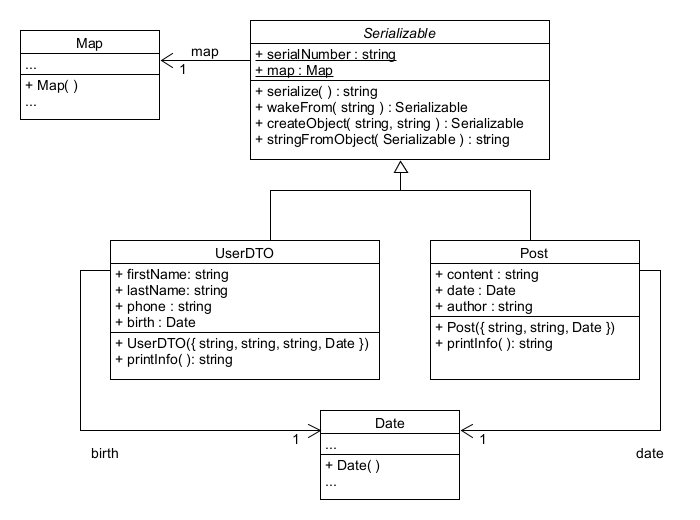
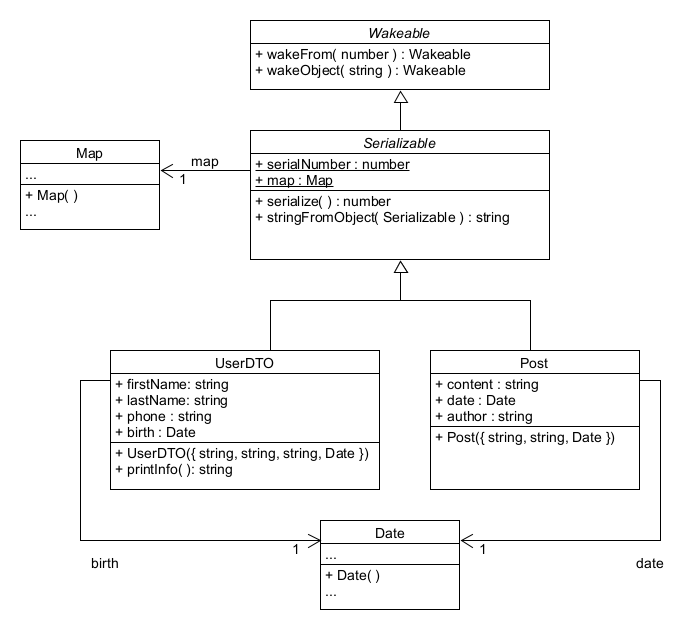
fixed OOP Practice #2

diff --git a/homeworks/german-macchia/09-js-advanced-2/09-js-advanced-2.js b/homeworks/german-macchia/09-js-advanced-2/09-js-advanced-2.js
@@ -1,43 +1,15 @@
-class Serializable {
-  static serialNumber = 0;
-  static map = new Map();
-
-  serialize() {
-    Serializable.serialNumber++;
-    Serializable.map.set(Serializable.serialNumber, [
-      this.constructor.name,
-      this.stringFromObject(this),
-    ]);
-    return Serializable.serialNumber;
-  }
-
-  stringFromObject(obj) {
-    for (let el in obj) {
-      if (Object.is(obj[el], NaN)) {
-        obj[el] = "NaN";
-      } else if (Object.is(obj[el], Infinity)) {
-        obj[el] = "Infinity";
-      }
-    }
-    return JSON.stringify(obj);
-  }
+class Wakeable {
 
   wakeFrom(serial) {
     let objectNameInMap = Serializable.map.get(serial)[0];
     let objectStringinMap = Serializable.map.get(serial)[1];
-    if (this.constructor.name === objectNameInMap) {
-      return this.createObject(objectStringinMap);
-    } else {
-      throw new Error(
-        `The serial No ${serial} does not belong to the instanciated class`
-      );
-    }
+    if (this.constructor.name === objectNameInMap) return this.wakeObject(objectStringinMap);
+    else throw new Error( `The serial No ${serial} does not belong to the instanciated class`);
   }
 
-  createObject(stringObject) {
+  wakeObject(stringObject) {
     stringObject = stringObject.replace(/["{}]/g, "").split(/,/);
     let parameters = {};
-    let newObject;
 
     for (let el of stringObject) {
       let propsArray = el.split(":");
@@ -78,6 +50,28 @@ class Serializable {
   }
 }
 
+class Serializable extends Wakeable {
+  static serialNumber = 0;
+  static map = new Map();
+
+  serialize() {
+    Serializable.serialNumber++;
+    Serializable.map.set(Serializable.serialNumber, [
+      this.constructor.name,
+      this.stringFromObject(this),
+    ]);
+    return Serializable.serialNumber;
+  }
+
+  stringFromObject(obj) {
+    for (let el in obj) {
+      if (Object.is(obj[el], NaN)) obj[el] = "NaN";
+      else if (Object.is(obj[el], Infinity)) obj[el] = "Infinity";
+    }
+    return JSON.stringify(obj);
+  }
+}
+
 class UserDTO extends Serializable {
   constructor({ firstName, lastName, phone, birth } = {}) {
     super();
@@ -96,6 +90,23 @@ class UserDTO extends Serializable {
   }
 }
 
+class Post extends Serializable {
+  constructor({ content, date, author } = {}) {
+    super();
+
+    this.content = content;
+    this.date = date;
+    this.author = author;
+  }
+
+  printInfo() {
+    return `${this.author} : ${this.content} - ${this.date.toISOString()}`;
+  }
+}
+
+
+// TESTS *********************
+
 let tolik = new UserDTO({
   firstName: "Anatoliy",
   lastName: "Nashovich",
@@ -113,19 +124,6 @@ const resurrectedTolik = new UserDTO().wakeFrom(serialized);
 console.log(resurrectedTolik instanceof UserDTO); // true
 console.log(resurrectedTolik.printInfo()); // A. Nashovich - 2020327, 1999-01-02T00:00:00.000Z
 
-class Post extends Serializable {
-  constructor({ content, date, author } = {}) {
-    super();
-
-    this.content = content;
-    this.date = date;
-    this.author = author;
-  }
-
-  printInfo() {
-    return `${this.author} : ${this.content} - ${this.date.toISOString()}`;
-  }
-}
 
 try {
   console.log(new Post().wakeFrom(serialized));
@@ -175,7 +173,7 @@ let newUser3 = new UserDTO({
   phone: "5949357",
   birth: new Date("2001-04-09"),
 });
-console.log(newUser3.printInfo()); // J. Doe - 5949357, 2001-04-09T00:00:00.000Z
+console.log(newUser3.printInfo()); // J. 0 - 5949357, 2001-04-09T00:00:00.000Z
 console.log(newUser3.lastName); //-0
 
 const serialized3 = newUser3.serialize();
@@ -216,7 +214,7 @@ let newUser5 = new UserDTO({
 console.log(newUser5.printInfo()); //U. null - null, 2001-04-09T00:00:00.000Z
 
 const serialized5 = newUser5.serialize();
-console.log(serialized5); //5
+console.log(serialized5); //6
 newUser4 = null;
 const resurrectedNewUser5 = new UserDTO().wakeFrom(serialized5);
 
